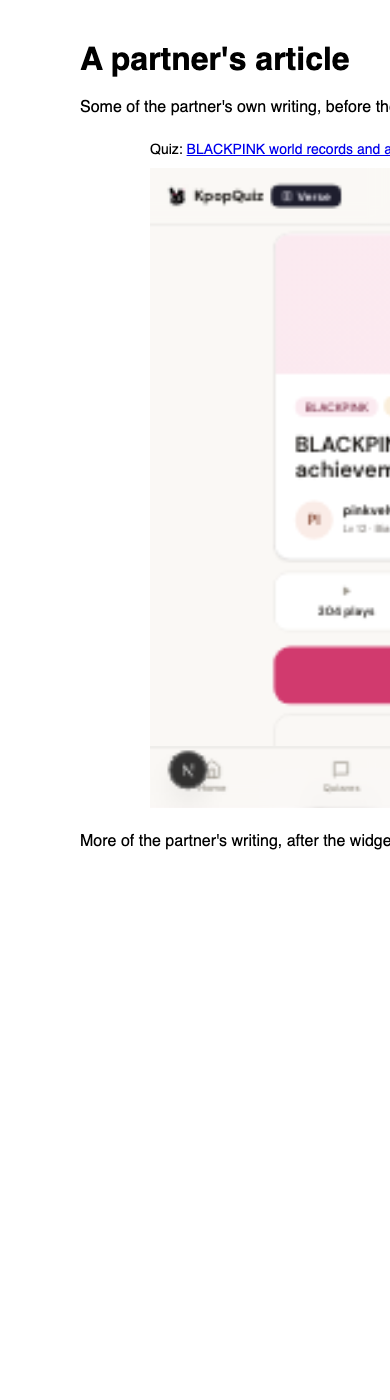
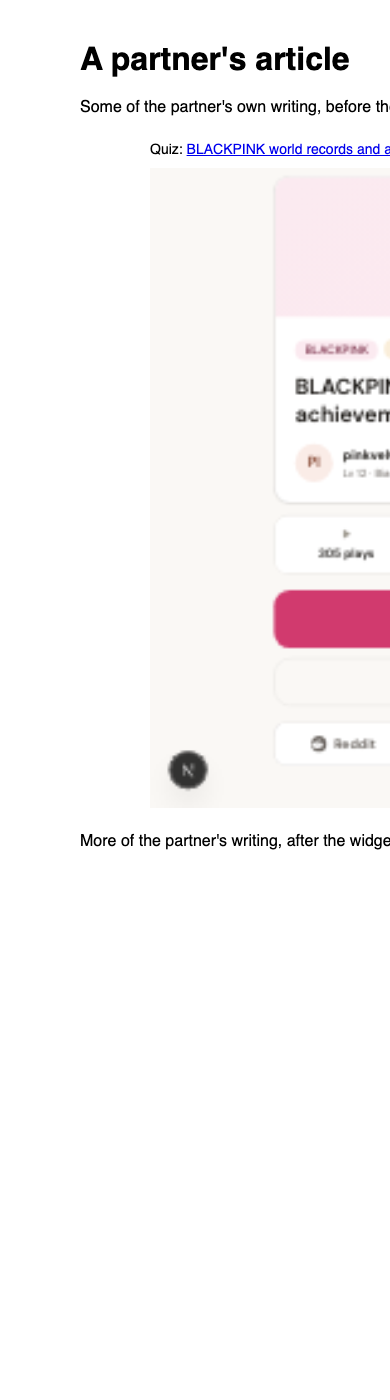
W4b item 1: the site chrome no longer leaks into the partner's iframe
The open defect from W4 is closed. /embed/* now renders the quiz alone.

WHY NOT THE ROUTE GROUP I PROPOSED (deviation, flagged)
A second root layout only works in Next when EVERY route lives in a group, because
app/layout.tsx is the root for everything while it exists. Doing it as proposed means
relocating all ~60 routes under app/(site)/ to serve one widget, which is precisely
the "do not regress the site to fix the widget" risk the mission warns about. So the
chrome self-hides instead: one client component reads the pathname and the root layout
keeps a single definition of what the chrome is. usePathname runs during SSR too, so
the nav is never in the embed's HTML, not merely hidden with CSS.

PROVEN ON BOTH SIDES, which was the actual risk.

Rendered DOM (the real test, not a string grep):
                nav  header  footer  tabBarLinks
  home           2      2       1        15
  /q/<slug>      2      1       1         8
  /embed/q/...   0      0       0         0

Served HTML, before -> after, on the three normal pages: byte-identical on every
counter (topNav 9, mobileTabBar, footer, themeInit, quizzes links). Only the embed
moved: topNav 9 -> 0, quizzes links 3 -> 0.

Screenshots at 390px and desktop show the widget in a host page with no top bar and
no tab bar, and the outside-iframe backlink still in the host DOM.

Gates: tsc 0, build 0, check:routes 0. Nothing pushed.

Changed region(s): [[0.6769, 0.2457, 1.0, 0.5836], [0.4308, 0.1229, 0.8923, 0.1536], [0.5231, 0.5221, 0.5846, 0.5836]]

diff --git a/apps/quiz/src/app/layout.tsx b/apps/quiz/src/app/layout.tsx
@@ -11,6 +11,7 @@ import { MobileTopBar } from '@/components/layout/mobile-top-bar';
 import { Footer } from '@/components/layout/footer';
 import { SiteFooter } from '@/components/layout/site-footer';
 import { ToastProvider } from '@/components/ui/toast-provider';
+import { SiteChrome } from '@/components/layout/site-chrome';
 import { SOCIAL_LINKS } from '@kpopquiz/shared/social-links';
 
 import type { Metadata, Viewport } from 'next';
@@ -151,17 +152,27 @@ export default function RootLayout({ children }: RootLayoutProps): React.ReactEl
         />
         <ThemeInit />
         <ToastProvider>
-          <div className="flex flex-col min-h-screen">
-            <Suspense fallback={<TopNavSkeleton />}>
-              <TopNav />
-            </Suspense>
-            <MobileTopBar />
-            <main className="flex-1 w-full max-w-[720px] mx-auto px-4 sm:px-0 pb-24 md:pb-8">
-              {children}
-            </main>
-            <SiteFooter play={<Footer />} />
-          </div>
-          <MobileTabBar />
+          {/* W4b: /embed/* renders the payload alone. Everything else gets the full
+              chrome, defined here and nowhere else. */}
+          <SiteChrome
+            chrome={
+              <>
+                <div className="flex flex-col min-h-screen">
+                  <Suspense fallback={<TopNavSkeleton />}>
+                    <TopNav />
+                  </Suspense>
+                  <MobileTopBar />
+                  <main className="flex-1 w-full max-w-[720px] mx-auto px-4 sm:px-0 pb-24 md:pb-8">
+                    {children}
+                  </main>
+                  <SiteFooter play={<Footer />} />
+                </div>
+                <MobileTabBar />
+              </>
+            }
+          >
+            {children}
+          </SiteChrome>
         </ToastProvider>
         <Analytics />
       </body>

diff --git a/apps/quiz/src/components/layout/site-chrome.tsx b/apps/quiz/src/components/layout/site-chrome.tsx
@@ -1,0 +1,38 @@
+'use client';
+
+import { usePathname } from 'next/navigation';
+
+// W4b item 1 - the site chrome, and the one surface that must not have it.
+//
+// THE DEFECT: /embed/* was dragging TopNav, MobileTopBar, the footer and MobileTabBar
+// into the partner's iframe. Nobody embeds a widget that pulls a whole site nav into
+// their page.
+//
+// WHY NOT THE ROUTE GROUP I PROPOSED: a second root layout only works in Next when
+// EVERY route lives in a group, because `app/layout.tsx` is the root for everything
+// while it exists. Doing it properly means relocating all ~60 routes under `app/(site)/`
+// to serve one widget, which is exactly the "do not regress the site to fix the widget"
+// risk the mission warns about. This achieves the same OUTCOME by deciding in one place
+// instead: the chrome self-hides on /embed/*, and the root layout keeps a single
+// definition of what the chrome is.
+//
+// The check runs during SSR too (usePathname is available to client components on the
+// server), so the chrome is never in the embed's HTML at all, not merely hidden by CSS.
+export function SiteChrome({
+  chrome,
+  children,
+}: {
+  chrome: React.ReactNode;
+  children: React.ReactNode;
+}): React.ReactElement {
+  const pathname = usePathname();
+  const isEmbed = pathname?.startsWith('/embed') ?? false;
+
+  if (isEmbed) {
+    // No nav, no footer, no tab bar, and no max-width main wrapper: an iframe should
+    // carry the quiz and nothing else.
+    return <>{children}</>;
+  }
+
+  return <>{chrome}</>;
+}
